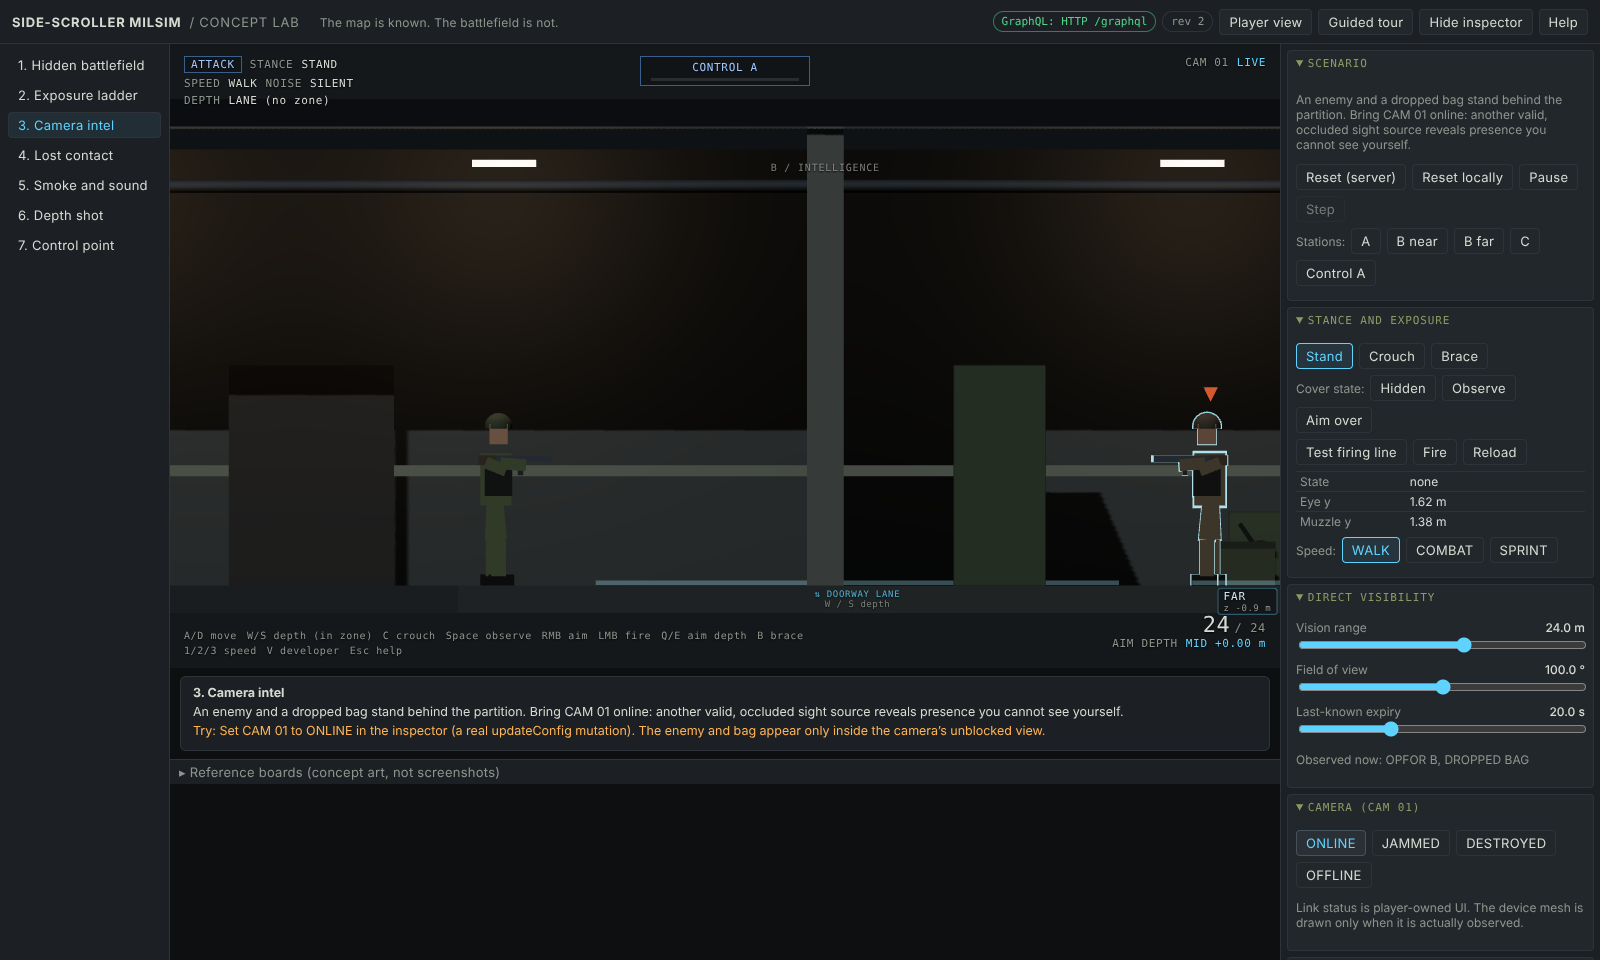
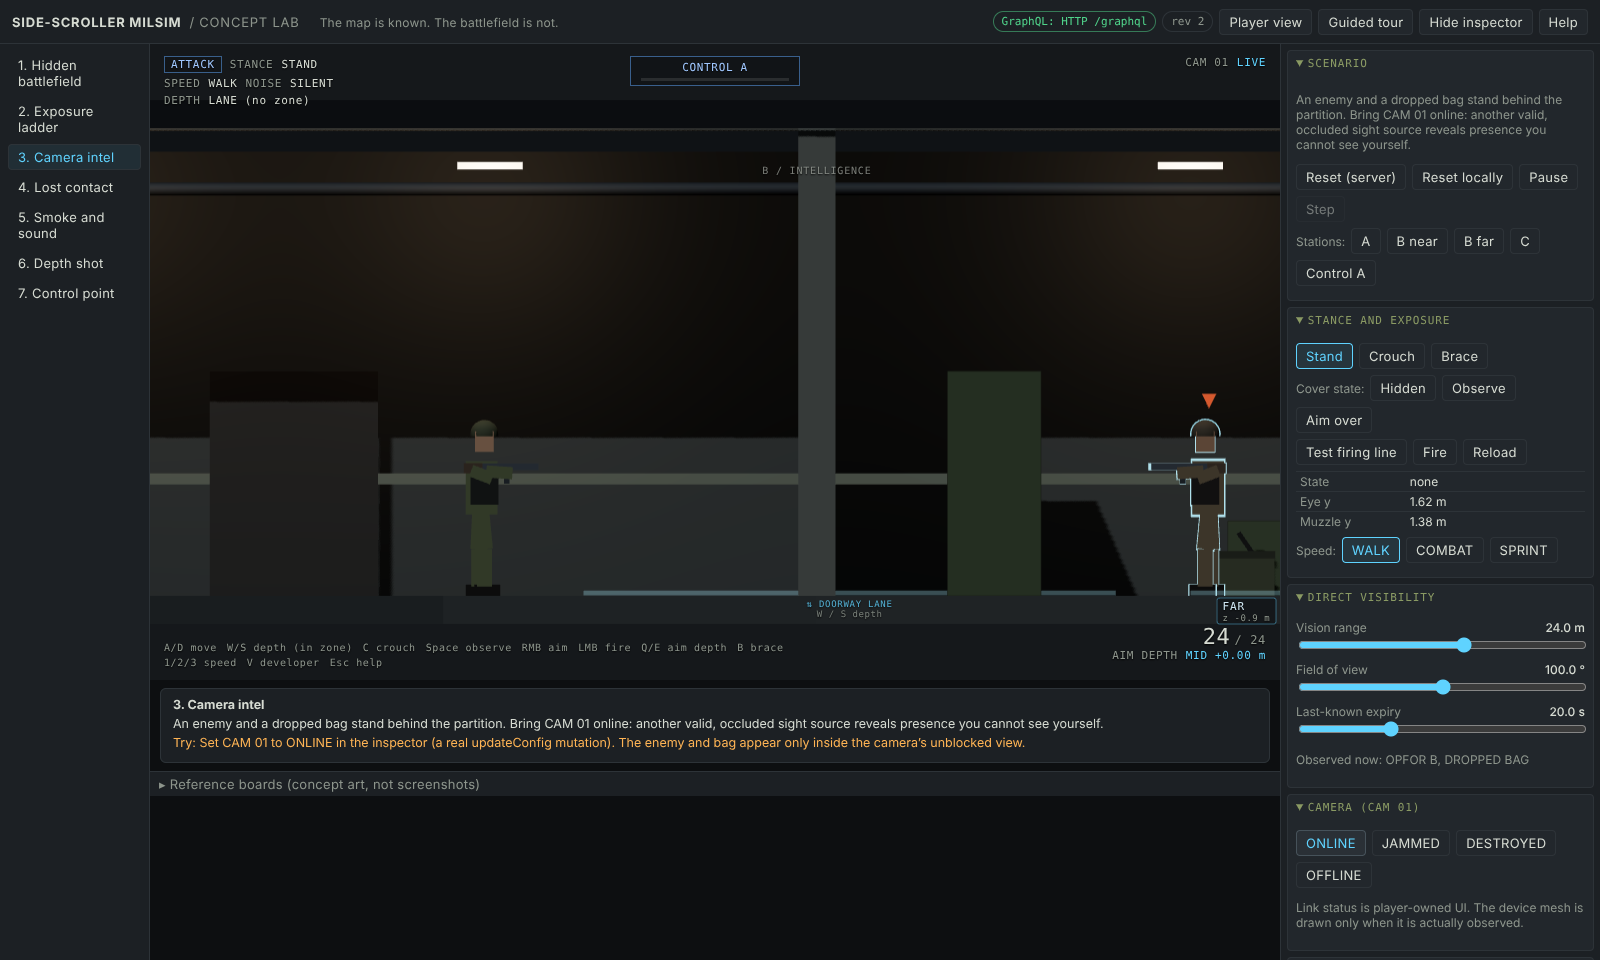
Fix slider commits, stuck mutating flag and catalogue retry; harden boot and layout
- useDebouncedCommit keeps the latest commit in a ref so the 90 ms HUD
  re-render no longer cancels the timer: every tuning slider now sends exactly
  one updateConfig after 350 ms of quiet (asserted by the walkthrough).
- Switching scenario while a mutation is in flight clears `mutating`; tour
  navigation and Retry are disabled while busy (test added).
- Retry reloads the catalogue when it never loaded, then selects a scenario.
- Single API probe and single session under React StrictMode; the probe's
  short timeout no longer applies to normal operations.
- Narrower scenario column; inspector starts collapsed below 1500 px so the
  scene stays dominant. README counts and simplifications updated.

Claude-Session: https://claude.ai/code/session_01FMQ4WjpDGKMUVygWt6nDH7

diff --git a/src/app/App.tsx b/src/app/App.tsx
@@ -15,6 +15,7 @@ import { chooseTransport, type TransportChoice } from './transportSetup.ts';
 export function App() {
   const [choice, setChoice] = useState<TransportChoice | null>(null);
   const [booting, setBooting] = useState(true);
+  const booted = useRef(false);
 
   const boot = useCallback(async (forceInProcess = false) => {
     setBooting(true);
@@ -24,6 +25,9 @@ export function App() {
   }, []);
 
   useEffect(() => {
+    // StrictMode mounts twice in development; probe the API once.
+    if (booted.current) return;
+    booted.current = true;
     void boot();
   }, [boot]);
 
@@ -65,15 +69,30 @@ function Lab({ choice }: { choice: TransportChoice }) {
   const [mode, setMode] = useState<ViewMode>('player');
   const [devOptions, setDevOptions] = useState<DevOptions>({ showRays: true, showColliders: false, showCones: true, showZones: true });
   const [help, setHelp] = useState(false);
-  const [inspectorOpen, setInspectorOpen] = useState(true);
+  const [inspectorOpen, setInspectorOpen] = useState(() => typeof window === 'undefined' || window.innerWidth >= 1500);
   const [galleryOpen, setGalleryOpen] = useState(false);
   const [tour, setTour] = useState<{ active: boolean; index: number }>({ active: false, index: 0 });
   const p = useHudSnapshot(controller, mode);
   const helpRef = useRef(help);
   helpRef.current = help;
 
+  const initialised = useRef(false);
   useEffect(() => {
+    if (initialised.current) return; // StrictMode double-mount guard: one catalogue load, one session
+    initialised.current = true;
     void controller.loadCatalogue().then(() => controller.selectScenario('hidden-battlefield')).catch(() => undefined);
+  }, [controller]);
+
+  /** Retries whatever failed: the catalogue if it never loaded, otherwise the current (or first) scenario. */
+  const retry = useCallback(async () => {
+    const s = controller.getState();
+    try {
+      if (s.scenarios.length === 0) await controller.loadCatalogue();
+    } catch {
+      return;
+    }
+    const target = s.scenario?.id ?? controller.getState().scenarios[0]?.id;
+    if (target) await controller.selectScenario(target);
   }, [controller]);
 
   const openHelp = useCallback(() => {
@@ -151,7 +170,9 @@ function Lab({ choice }: { choice: TransportChoice }) {
           <button className={mode === 'developer' ? 'on' : ''} onClick={toggleDeveloper} title="V">
             {mode === 'developer' ? 'Developer view' : 'Player view'}
           </button>
-          <button onClick={startTour}>Guided tour</button>
+          <button onClick={startTour} disabled={state.mutating || scenarios.length === 0}>
+            Guided tour
+          </button>
           <button onClick={() => setInspectorOpen((o) => !o)}>{inspectorOpen ? 'Hide inspector' : 'Inspector'}</button>
           <button onClick={openHelp}>Help</button>
         </div>
@@ -169,7 +190,9 @@ function Lab({ choice }: { choice: TransportChoice }) {
             <div className="error small pad">
               {state.error}
               <div className="btn-row">
-                <button onClick={() => state.scenario && selectScenario(state.scenario.id)}>Retry</button>
+                <button onClick={() => void retry()} disabled={state.mutating || state.phase === 'loading'}>
+                  Retry
+                </button>
                 <button onClick={() => controller.dismissError()}>Dismiss</button>
               </div>
             </div>
@@ -187,7 +210,7 @@ function Lab({ choice }: { choice: TransportChoice }) {
           <div className="understage">
             {mode === 'developer' && <TopView controller={controller} />}
             {tour.active && state.scenario && currentKind ? (
-              <Tour index={tour.index} total={scenarios.length} title={state.scenario.title} description={state.scenario.description} hint={TOUR_HINTS[currentKind]} onPrev={() => tourGo(tour.index - 1)} onNext={() => tourGo(tour.index + 1)} onExit={() => setTour({ active: false, index: 0 })} />
+              <Tour index={tour.index} total={scenarios.length} title={state.scenario.title} description={state.scenario.description} hint={TOUR_HINTS[currentKind]} busy={state.mutating || state.phase === 'loading'} onPrev={() => tourGo(tour.index - 1)} onNext={() => tourGo(tour.index + 1)} onExit={() => setTour({ active: false, index: 0 })} />
             ) : (
               state.scenario &&
               currentKind && (

diff --git a/src/app/hooks.ts b/src/app/hooks.ts
@@ -1,4 +1,4 @@
-import { useEffect, useState, useSyncExternalStore } from 'react';
+import { useEffect, useRef, useState, useSyncExternalStore } from 'react';
 import type { ApiClient, OperationRecord } from '../graphql/client.ts';
 import type { Presentation, ViewMode } from '../simulation/world.ts';
 import type { ControllerState, SessionController } from './sessionController.ts';
@@ -40,21 +40,28 @@ export function useHudSnapshot(controller: SessionController, mode: ViewMode, in
   return snap;
 }
 
-/** Debounced commit helper for sliders: local value updates immediately, commit fires after `delay` ms of quiet. */
+/**
+ * Debounced commit helper for sliders: the local value updates immediately and
+ * the commit fires after `delay` ms of quiet. The latest `commit` callback is
+ * kept in a ref so parent re-renders (the HUD re-renders ~11 times a second)
+ * never restart the timer.
+ */
 export function useDebouncedCommit<T>(value: T, commit: (v: T) => void, delay = 350): [T, (v: T) => void] {
   const [local, setLocal] = useState<T>(value);
   const [dirty, setDirty] = useState(false);
+  const commitRef = useRef(commit);
+  commitRef.current = commit;
   useEffect(() => {
     if (!dirty) setLocal(value);
   }, [value, dirty]);
   useEffect(() => {
     if (!dirty) return;
     const id = window.setTimeout(() => {
-      commit(local);
+      commitRef.current(local);
       setDirty(false);
     }, delay);
     return () => window.clearTimeout(id);
-  }, [local, dirty, delay, commit]);
+  }, [local, dirty, delay]);
   return [
     local,
     (v: T) => {

diff --git a/scripts/screenshots.ts b/scripts/screenshots.ts
@@ -109,8 +109,17 @@ async function main() {
   await page.waitForTimeout(700);
   await shot(page, '03b-camera-online', 'updateConfig(cameraStatus: ONLINE) → revision 2: CAM 01 reveals the enemy and the bag inside its own unblocked view.');
   await setMode(page, true);
-  await shot(page, '03c-camera-online-dev', 'Developer view: camera cone and its clipped sample rays; source tag CAM-01.');
+  await shot(page, '03c-camera-online-dev', 'Developer view: camera cone and its clipped sample rays; source tag CAM 01.');
   await setMode(page, false);
+  // A slider gesture must commit exactly one debounced updateConfig (revision 2 → 3).
+  const slider = page.locator('.inspector input[type=range]').first();
+  await slider.focus();
+  await page.keyboard.press('ArrowRight');
+  await page.waitForFunction(() => Array.from(document.querySelectorAll('.chip')).some((c) => c.textContent?.includes('rev 3')), undefined, { timeout: 5000 });
+  await page.waitForTimeout(600);
+  const rev = await page.evaluate(() => Array.from(document.querySelectorAll('.chip')).map((c) => c.textContent).find((t) => t?.startsWith('rev')));
+  if (rev !== 'rev 3') throw new Error(`slider commit produced ${rev}, expected exactly rev 3`);
+  console.log('  slider commit check: one UpdateConfig → rev 3');
 
   // 4. Lost contact
   await selectScenario(page, 3);

diff --git a/src/app/transportSetup.ts b/src/app/transportSetup.ts
@@ -29,16 +29,17 @@ export async function chooseTransport(forceInProcess = false): Promise<Transport
   if (forceInProcess || wantsInProcess()) {
     return { client: new ApiClient(new InProcessTransport()), probeError: null, autoFallback: false };
   }
-  const http: Transport = new HttpTransport('/graphql', 2500);
-  const client = new ApiClient(http);
+  // Short timeout for the connectivity probe only; real operations get the transport's normal timeout.
+  const probe = new ApiClient(new HttpTransport('/graphql', 2500));
   try {
-    await client.apiInfo();
-    return { client, probeError: null, autoFallback: false };
+    await probe.apiInfo();
+    const http: Transport = new HttpTransport('/graphql');
+    return { client: new ApiClient(http), probeError: null, autoFallback: false };
   } catch (err) {
     const message = (err as Error).message;
     if (!isLocalHost()) {
       return { client: new ApiClient(new InProcessTransport()), probeError: message, autoFallback: true };
     }
-    return { client, probeError: message, autoFallback: false };
+    return { client: probe, probeError: message, autoFallback: false };
   }
 }

diff --git a/src/app/Tour.tsx b/src/app/Tour.tsx
@@ -16,12 +16,13 @@ interface Props {
   title: string;
   description: string;
   hint: string;
+  busy?: boolean;
   onPrev: () => void;
   onNext: () => void;
   onExit: () => void;
 }
 
-export function Tour({ index, total, title, description, hint, onPrev, onNext, onExit }: Props) {
+export function Tour({ index, total, title, description, hint, busy = false, onPrev, onNext, onExit }: Props) {
   return (
     <div className="tour" role="dialog" aria-label="Guided tour">
       <div className="tour-head">
@@ -36,10 +37,10 @@ export function Tour({ index, total, title, description, hint, onPrev, onNext, o
       <p>{description}</p>
       <p className="hint">{hint}</p>
       <div className="btn-row">
-        <button disabled={index === 0} onClick={onPrev}>
+        <button disabled={index === 0 || busy} onClick={onPrev}>
           ← Previous
         </button>
-        <button className="primary" onClick={onNext}>
+        <button className="primary" disabled={busy} onClick={onNext}>
           {index + 1 < total ? 'Next →' : 'Finish'}
         </button>
       </div>

diff --git a/tests/sessionController.test.ts b/tests/sessionController.test.ts
@@ -115,3 +115,21 @@ describe('SessionController', () => {
     expect(c.world!.knowledge.lastKnown).toHaveLength(0);
   });
 });
+
+describe('SessionController: epoch changes mid-mutation', () => {
+  it('clears the mutating flag when a scenario switch abandons an in-flight mutation', async () => {
+    const t = fakeTransport({ UpdateConfig: [250] });
+    const c = new SessionController(new ApiClient(t));
+    await c.selectScenario('depth-shot');
+    const pending = c.updateConfig({ smokeEnabled: true });
+    await new Promise((r) => setTimeout(r, 30));
+    expect(c.getState().mutating).toBe(true);
+    await c.selectScenario('control-point');
+    expect(c.getState().mutating).toBe(false);
+    await pending;
+    await new Promise((r) => setTimeout(r, 50));
+    expect(c.getState().mutating).toBe(false);
+    expect(c.getState().scenario?.id).toBe('control-point');
+    expect(c.world?.config.smokeEnabled).toBe(false); // the abandoned mutation never touched the new world
+  });
+});

diff --git a/src/app/sessionController.ts b/src/app/sessionController.ts
@@ -89,7 +89,8 @@ export class SessionController {
     this.abort?.abort();
     const abort = new AbortController();
     this.abort = abort;
-    this.set({ phase: 'loading', epoch, error: null });
+    // A new epoch abandons any in-flight mutation of the old one, so its `mutating` flag must not survive.
+    this.set({ phase: 'loading', epoch, error: null, mutating: false });
     try {
       const [scenario, session] = await Promise.all([this.client.scenario(id, abort.signal), this.client.createSession(id, abort.signal)]);
       if (this.state.epoch !== epoch) return; // stale: a newer selection won

diff --git a/src/app/Inspector.tsx b/src/app/Inspector.tsx
@@ -32,8 +32,7 @@ function Section({ title, children, open = true }: { title: string; children: Re
 }
 
 function Slider({ label, value, min, max, step, unit, onCommit, disabled }: { label: string; value: number; min: number; max: number; step: number; unit: string; onCommit: (v: number) => void; disabled?: boolean }) {
-  const commit = useCallback((v: number) => onCommit(v), [onCommit]);
-  const [local, setLocal] = useDebouncedCommit(value, commit);
+  const [local, setLocal] = useDebouncedCommit(value, onCommit);
   return (
     <label className="slider">
       <span className="slider-label">

diff --git a/src/app/styles.css b/src/app/styles.css
@@ -144,11 +144,11 @@ code {
 }
 .main {
   display: grid;
-  grid-template-columns: 170px minmax(0, 1fr) 320px;
+  grid-template-columns: 150px minmax(0, 1fr) 320px;
   min-height: 0;
 }
 .inspector-collapsed .main {
-  grid-template-columns: 170px minmax(0, 1fr);
+  grid-template-columns: 150px minmax(0, 1fr);
 }
 .scenarios {
   border-right: 1px solid var(--line);

diff --git a/README.md b/README.md
@@ -43,7 +43,7 @@ Other commands:
 | Command | Purpose |
 | --- | --- |
 | `npm run typecheck` | strict TypeScript check of app, server, tests and scripts |
-| `npm test` | 63 focused vitest tests (geometry, cover, visibility, recon, aiming, shots, movement, objective, GraphQL contract, session controller, camera projection) |
+| `npm test` | 70 focused vitest tests (geometry, cover, visibility, recon, aiming, shots, movement, objective, information boundary, GraphQL contract, session controller, camera projection) |
 | `npm run build` | production build into `dist/` |
 | `npm run preview` | serves `dist/` on http://127.0.0.1:4173 **with** the API (`vite preview` proxies `/graphql` to the Yoga server it starts alongside) |
 | `npm run check` | typecheck + tests + build |
@@ -106,6 +106,8 @@ React and Three.js):
 - One observer source besides the player (the camera). Drones, sensors, teammates, prone, vaulting, climbing, networking and server authority are deliberately not built.
 - Decorative meshes (ceiling beams, pipe, wall stripe, light fixtures, slot outline) carry no collision. The near-side door jamb is rendered as a translucent section cut so the slot stays readable; its collider is solid.
 - Audio is visual-only (no sound files).
+- Each preset places one scripted target actor (five different actors across the seven presets) rather than two at once, to keep every demonstration unambiguous.
+- The inspector opens by default on windows at least 1500 px wide; narrower windows start with it collapsed so the scene stays dominant (toggle with the Inspector button).
 
 ## 3. Two-minute tour
 
@@ -194,10 +196,19 @@ Then `src/shared/scenarios.ts` (the map and presets), `server/resolvers.ts`
 
 ## 7. Acceptance results
 
-Automated evidence is `npm test` (63 tests, all passing at the time of
+Automated evidence is `npm test` (70 tests, all passing at the time of
 writing) and the headless walkthrough `npm run screenshots` (23 frames in
-`docs/screenshots/`, 0 console or page errors). Manual checks were done in
-headless Chromium with SwiftShader WebGL.
+`docs/screenshots/`, 0 console or page errors, plus an assertion that one
+slider gesture produces exactly one `updateConfig`). Manual checks were done
+in headless Chromium with SwiftShader WebGL. An adversarial review pass
+(six independent reviewers plus skeptic re-verification against the brief)
+found and led to fixes for: a muzzle anchor that could sit inside a wall when
+the body is pressed against it, hidden-actor data in player-mode shot
+records and feedback, ghosts lingering for a frame after leaving developer
+view, keys sticking when the canvas lost input ownership, a reticle pixel
+clamp, silent port fallback, tuning sliders whose debounced commit was
+cancelled by the HUD re-render, and a stuck `mutating` flag after switching
+scenario mid-mutation.
 
 ### Scene and movement
 
